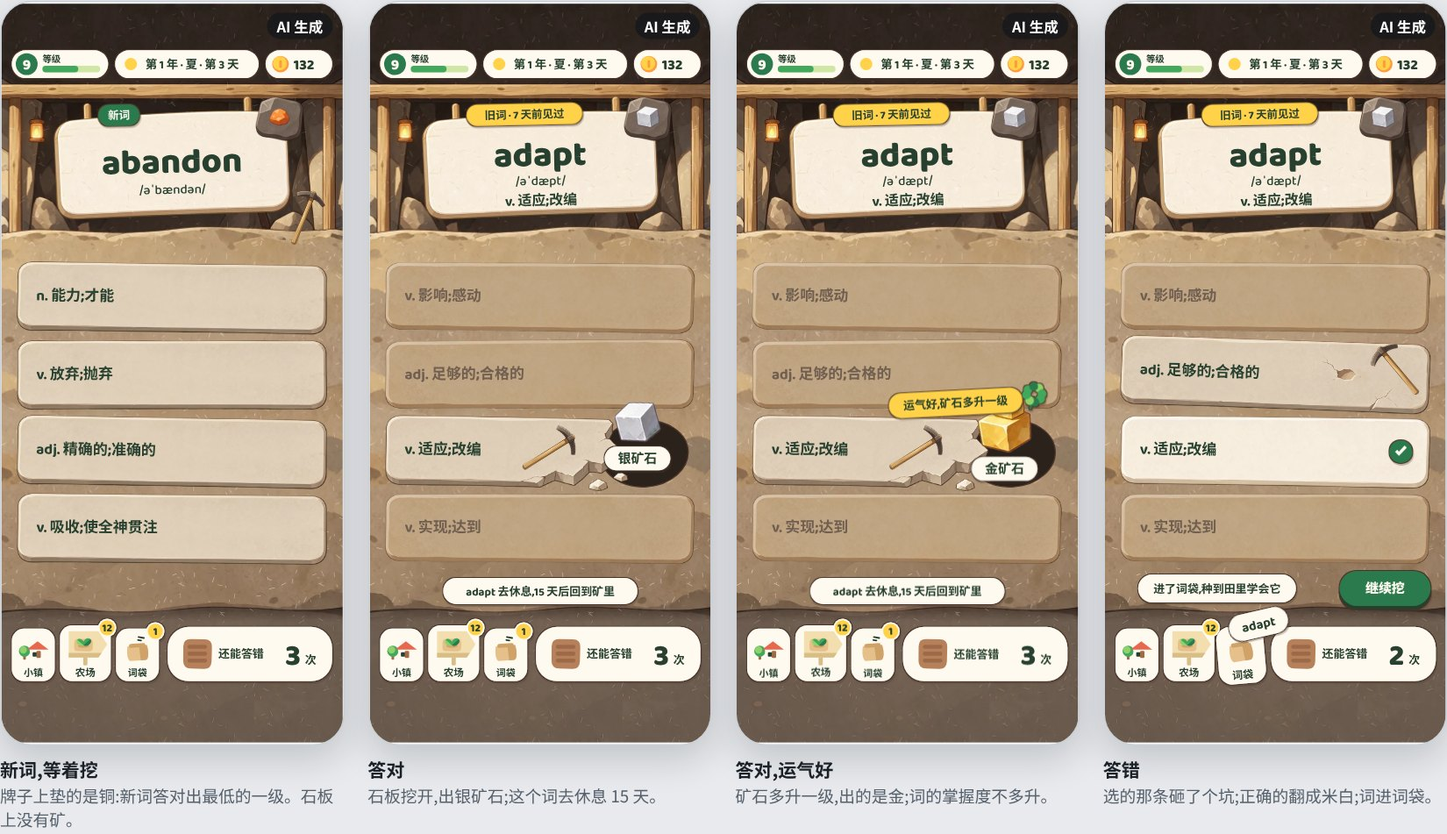
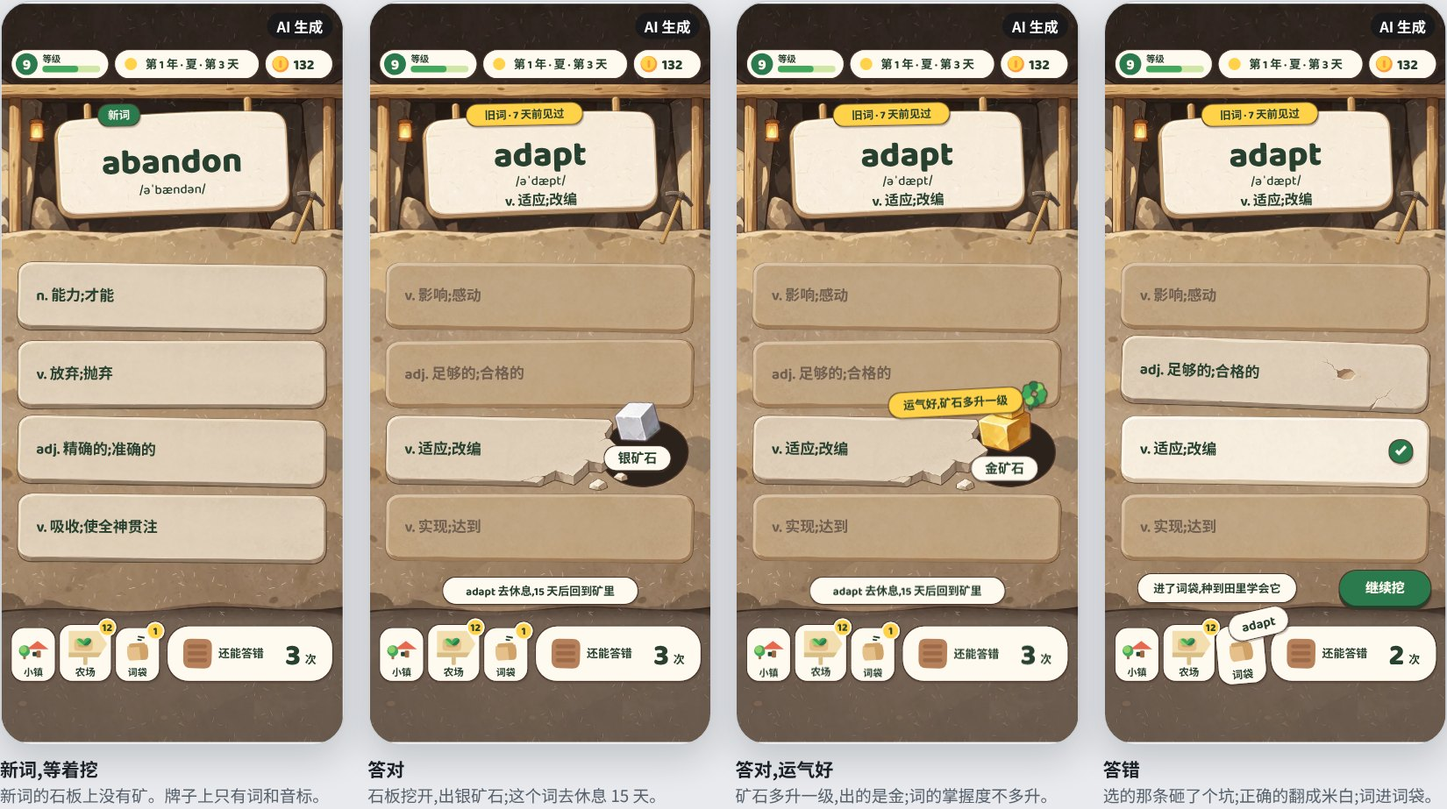
Drop the ore preview and keep the pick in the cave corner
The owner reviewed the sprite-built mine and asked for two changes: the
word sign no longer shows which ore a correct answer will yield, and the
pick stays leaning in the corner instead of landing on the answered
slab. Feedback after an answer now rests on the slab itself.

The ore pad sprite is no longer used and is removed from the set. The
art spec's body still describes the old layout, so its notice block
records the change until the spec is rewritten.

Claude-Session: https://claude.ai/code/session_01KLGgNjxFgtRsY37w3UzLNc

diff --git a/docs/design/cel-screens/index.html b/docs/design/cel-screens/index.html
@@ -355,8 +355,8 @@
     <div class="wrap">
       <h2>用素材拼出来的矿洞</h2>
       <p class="sub">
-        和农场、牧场同一种做法:背景一张(洞、木梁、提灯、矿壁、地面,这些不变),石板五种状态,矿石七级,词牌、镐、垫矿石的石片各一个。
-        哪条石板挖开了、出的是哪一级矿石、牌子上垫的是什么,都按这一题的状态摆。排法照搬彩纸那一屏,没有改。
+        和农场、牧场同一种做法:背景一张(洞、木梁、提灯、矿壁、地面,这些不变),石板五种状态,矿石七级,词牌和镐各一个。
+        哪条石板挖开了、出的是哪一级矿石,都按这一题的状态摆。排法照彩纸那一屏,负责人看过之后改了两处,见<a href="#mine-changes">下面</a>。
         背景是在负责人选的那一张(第一版的洞和矿壁)上把会变的东西去掉得到的,洞和矿壁没有重画。
       </p>
       <div class="trio" id="mine-built"></div>
@@ -369,10 +369,22 @@
       <p class="sub">四种情况,都是同一套素材摆出来的,没有另外出图:新词等着挖;答对;答对而且运气好,矿石多升一级;答错。</p>
       <div class="trio" id="mine-states" style="grid-template-columns:repeat(4,minmax(0,1fr));max-width:1100px"></div>
       <ul class="notes">
-        <li><b>答对:</b>那条石板换成断开的一张,右边露出洞,矿石放大摆在洞口,镐落在石板上。其余三条换成"沉回矿壁"的一张。</li>
+        <li><b>答对:</b>那条石板换成断开的一张,右边露出洞,矿石放大摆在洞口。其余三条换成"沉回矿壁"的一张。</li>
         <li><b>答错:</b>选的那条换成砸出一个小坑的一张,歪 2 度多;正确的那条换成米白的一张,加一个对勾。</li>
         <li><b>挖开之后露出的洞是代码画的一个深色椭圆,</b>不是素材,颜色是从背景里洞最深的地方量的。它边缘太齐,和手绘的石板放在一起看得出来。要好看得单独画一张。</li>
         <li><b>矿石的名字、对勾、四叶草、提示条、按钮</b>仍然是代码画的。</li>
+      </ul>
+
+      <h3 id="mine-changes">负责人看过之后改的两处</h3>
+      <p class="sub">上面一排是之前的,下面一排是现在的:答对和答错。</p>
+      <div class="sheet ai"><img src="shots/mine-redraw.jpg" alt="答对和答错:之前词牌右上角有矿石、镐落在石板上;现在词牌上没有矿石、镐靠在洞边" loading="lazy"></div>
+      <ul class="notes">
+        <li><b>词牌右上角不放矿石了。</b>之前那里垫着一块石片,上面是这次答对会出的那一级矿石。现在牌子上只有词、音标和"新词/旧词"的标签。</li>
+        <li><b>镐固定靠在洞的右边,</b>答对答错都不挪到石板上。</li>
+        <li><b>这两处和美术规范写的不一样了</b>(规范里词牌右上角探出会出的矿石,镐停在被点的那条石板上),规范开头的说明里记了一笔,正文等重写时再改。彩纸的那一屏和整屏重画的那一张没有动,还是原来的样子。</li>
+        <li><b>旧词石板上露着的那点矿还在。</b>它也透露这个词会出哪一级,这次没有提到它,所以没有动。</li>
+        <li><b>答完的反馈现在全落在石板自己身上:</b>断开,或者砸出一个坑。静止的画面里看得出点的是哪一条;做动效时"点下去的那一下"怎么表现要另想,比如镐从洞边挥一下再回去。这一条没有做,只是提出来。</li>
+        <li><b>割草那一屏是同一种说法</b>(词牌右上角探出能割的草,镰刀落在点的那一垄上)。那一屏没有重做,要不要跟着改还没有定。</li>
       </ul>
 
       <h3>素材一览</h3>
@@ -381,7 +393,7 @@
       <ul class="notes">
         <li><b>七级矿石分三档形状:</b>圆的粗矿(铜、铁),方的贵金属(银、金),尖的宝石(绿宝石、红宝石、钻石)。晶体的根数是 2、2、3,和彩纸那一版一样,数过。</li>
         <li><b>七个是同一个比例切出来的,</b>所以一级比一级大是画出来的,不是代码放大的。但银(第 3 级)画得比铁(第 2 级)小一点,量出来高 20pt 对 24pt。靠形状和颜色还是分得开,大小上不是严格一级比一级大。</li>
-        <li><b>银和钻石都是白的。</b>垫在深色石片上、摆在洞口时看得清;直接放在米白的界面上会看不清,和彩纸那一版是同一个问题,所以石片留着。</li>
+        <li><b>银和钻石都是白的。</b>摆在深色的洞口和石板上看得清;直接放在米白的界面上会看不清,和彩纸那一版是同一个问题。背包和商店里怎么垫,到做那几屏时再定。</li>
       </ul>
 
       <h3>动过的地方</h3>
@@ -398,7 +410,7 @@
       </ul>
       <div class="sheet ai"><img src="shots/mine-misses.jpg" alt="第一轮画错的四处:梁下面留着小牌子;石板上有矿石;词牌上有小纸签;宝石的晶体根数不对" loading="lazy"></div>
       <ul class="notes">
-        <li><b>用量:</b>两轮 8 次调用,约 11 万个输出 token。价格以账单为准。切出来 15 个素材加一张背景,约 0.3MB。提示词在 <code>sprites-mine/manifest.json</code>。</li>
+        <li><b>用量:</b>两轮 8 次调用,约 11 万个输出 token。价格以账单为准。切出来 14 个素材加一张背景,约 0.3MB(还有一块垫矿石的石片,出了没有用上)。提示词在 <code>sprites-mine/manifest.json</code>。</li>
       </ul>
 
       <h3>还没有做的</h3>

diff --git a/docs/design/cel-screens/cel-screens.js b/docs/design/cel-screens/cel-screens.js
@@ -308,7 +308,7 @@
       h = q.h * k2;
     return at(x, y, pic(base, name, -w * (ax == null ? 0.5 : ax), -h * (ay == null ? 0.5 : ay), w, h), rot);
   }
-  /** 镐:镐头的中心落在 (x, y),和彩纸那把镐是同一个握法,所以位置和角度可以照搬。 */
+  /** 镐:镐头的中心落在 (x, y),和彩纸那把镐是同一个握法,所以靠在洞边的位置和角度可以照搬。 */
   function minePick(base, x, y, rot, s) {
     return minePic(base, 'pick', x, y, s, rot, 0.5, 0.13);
   }
@@ -392,18 +392,11 @@
       texts += s.text;
     });
     o += holes + slabs + (opt.bare ? '' : texts);
-    // 词牌:两根木条挂在梁上。右上角垫一块石片,上面是答对会出的那一级矿石
-    o += g(
-      signTf,
-      minePic(base, 'sign', cx - 135, 107, 1, 0, 0, 0) +
-        minePic(base, 'pad', cx + 124, cy - 49, 1.12, 5) +
-        minePic(base, 'ore-' + (v.mastery + 1), cx + 124, cy - 51, 1.25, 5),
-    );
-    if (sel == null) top += minePick(base, 354, 222, 22, 1.05);
-    else if (right) {
-      top += minePick(base, 226, ys[sel] + 26, 58, 1.12);
-      top += minePic(base, 'ore-' + grade, 306, ys[sel] + 6, BURST, -6);
-    } else top += minePick(base, 318, ys[sel] + 16, -40, 1.12);
+    // 词牌:两根木条挂在梁上。牌子上只有词,不预告这次会出哪一级矿石(负责人 2026-11-22 定的)
+    o += g(signTf, minePic(base, 'sign', cx - 135, 107, 1, 0, 0, 0));
+    // 镐固定靠在洞的右边,答对答错都不挪到石板上(同一天定的)。答完的反馈落在石板自己身上:断开,或者砸出一个坑
+    top += minePick(base, 354, 222, 22, 1.05);
+    if (right) top += minePic(base, 'ore-' + grade, 306, ys[sel] + 6, BURST, -6);
     o += top;
     if (opt.bare) return o + '</svg>';
 

diff --git a/docs/design/cel-screens/sprites-mine/atlas.js b/docs/design/cel-screens/sprites-mine/atlas.js
@@ -1,2 +1,2 @@
 // 矿洞素材的清单:每个素材在屏幕上的宽和高(pt)。由切图的脚本写出来,不要手改。
-(window.LD = window.LD || {}).celMineSprites = {"slab-idle": {"w": 355.5, "h": 82.0}, "slab-hit": {"w": 279.2, "h": 85.3}, "slab-miss": {"w": 355.0, "h": 81.3}, "slab-answer": {"w": 355.0, "h": 81.3}, "slab-dim": {"w": 354.8, "h": 81.1}, "ore-1": {"w": 19.0, "h": 16.2}, "ore-2": {"w": 26.6, "h": 23.7}, "ore-3": {"w": 21.9, "h": 20.1}, "ore-4": {"w": 26.1, "h": 29.8}, "ore-5": {"w": 23.1, "h": 34.4}, "ore-6": {"w": 26.6, "h": 32.1}, "ore-7": {"w": 37.2, "h": 42.0}, "sign": {"w": 270.0, "h": 137.9}, "pick": {"w": 34.3, "h": 62.0}, "pad": {"w": 48.0, "h": 44.3}};
+(window.LD = window.LD || {}).celMineSprites = {"slab-idle": {"w": 355.5, "h": 82.0}, "slab-hit": {"w": 279.2, "h": 85.3}, "slab-miss": {"w": 355.0, "h": 81.3}, "slab-answer": {"w": 355.0, "h": 81.3}, "slab-dim": {"w": 354.8, "h": 81.1}, "ore-1": {"w": 19.0, "h": 16.2}, "ore-2": {"w": 26.6, "h": 23.7}, "ore-3": {"w": 21.9, "h": 20.1}, "ore-4": {"w": 26.1, "h": 29.8}, "ore-5": {"w": 23.1, "h": 34.4}, "ore-6": {"w": 26.6, "h": 32.1}, "ore-7": {"w": 37.2, "h": 42.0}, "sign": {"w": 270.0, "h": 137.9}, "pick": {"w": 34.3, "h": 62.0}};

diff --git a/docs/design/cel-screens/index.js b/docs/design/cel-screens/index.js
@@ -337,11 +337,11 @@
       $('mine-built'),
       LD.cel.mineSprites(SP, BG, sc, V.old, 'idle'),
       '矿洞,素材拼的',
-      '<b>素材拼的</b>词牌、石板、矿石、镐都按这一题摆上去。',
+      '<b>素材拼的</b>石板和矿石按这一题摆上去;词牌上不再放矿石。',
       true,
     );
     [
-      ['first', 'idle', '新词,等着挖', '牌子上垫的是铜:新词答对出最低的一级。石板上没有矿。'],
+      ['first', 'idle', '新词,等着挖', '新词的石板上没有矿。牌子上只有词和音标。'],
       ['old', 'hit', '答对', '石板挖开,出银矿石;这个词去休息 15 天。'],
       ['old', 'lucky', '答对,运气好', '矿石多升一级,出的是金;词的掌握度不多升。'],
       ['old', 'miss', '答错', '选的那条砸了个坑;正确的翻成米白;词进词袋。'],

diff --git a/docs/design/cel-screens/tools/build_mine.py b/docs/design/cel-screens/tools/build_mine.py
@@ -50,12 +50,13 @@ if sp:
     k=42/sp[6].size[1]
     for i,s in enumerate(sp): save(s,f'ore-{i+1}',k)
 else: problems.append('ores')
-# 词牌 268pt 宽(连两根木条),镐约 62pt 高,垫矿石的石片 48pt 宽
+# 词牌 268pt 宽(连两根木条),镐约 62pt 高
 sp=cut('props.png',3,green=True)
 if sp:
     # 词牌也比彩纸那一屏的高(牌面 124pt,原来是 112pt),下沿会压到矿壁上,压扁 6%
     ks=270/sp[0].size[0]
-    save(sp[0],'sign',ks,ks*0.94); save(sp[1],'pick',62/sp[1].size[1]); save(sp[2],'pad',48/sp[2].size[0])
+    save(sp[0],'sign',ks,ks*0.94); save(sp[1],'pick',62/sp[1].size[1])
+    # 第三样是垫矿石的石片。词牌右上角不再放矿石(负责人 2026-11-22 定的),石片没有用上,不存
 else: problems.append('props')
 Image.open('bg2.png').convert('RGB').resize((780,1688),Image.LANCZOS).save(f'{OUT}/mine-bg.webp','WEBP',quality=86,method=6)
 json.dump(atlas,open(f'{OUT}/atlas.json','w'),ensure_ascii=False,indent=0)

diff --git a/docs/design/cel-screens/README.md b/docs/design/cel-screens/README.md
@@ -40,6 +40,7 @@
 | [`pasture-redraw.jpg`](shots/pasture-redraw.jpg) | 负责人要求改的:草垛、饲料桶、牧草、母鸡,之前和现在 |
 | [`mine-built.jpg`](shots/mine-built.jpg)、[`mine-states.jpg`](shots/mine-states.jpg) | 用素材拼出来的矿洞:和彩纸、整屏重画并排;新词、答对、运气好、答错 |
 | [`mine-sprites.jpg`](shots/mine-sprites.jpg)、[`mine-misses.jpg`](shots/mine-misses.jpg) | 矿洞的素材一览;第一轮画错的四处 |
+| [`mine-redraw.jpg`](shots/mine-redraw.jpg) | 负责人要求改的:词牌上不放矿石、镐固定在洞边,之前和现在 |
 | [`tone.jpg`](shots/tone.jpg) | 色调:第一版和现在的,三屏各一对 |
 | [`mine-cave.jpg`](shots/mine-cave.jpg) | 矿洞:左边是第一版,右边是现在的(同一张画,只调亮了地面) |
 | [`ground.jpg`](shots/ground.jpg) | 底色:农场和牧场各三张,彩纸、调之前、调之后(只有场景,没有界面) |
@@ -288,22 +289,22 @@
 
 ### 用素材拼出来的矿洞
 
-和农场、牧场同一种做法:背景一张(洞、木梁、提灯、矿壁、地面,这些不变),石板五种状态,矿石七级,词牌、镐、垫矿石的石片各一个。
-哪条石板挖开了、出的是哪一级矿石、牌子上垫的是什么,都按这一题的状态摆。排法照搬彩纸那一屏([`../mine-screens/screens.js`](../mine-screens/screens.js) 的 `mine`),没有改。
+和农场、牧场同一种做法:背景一张(洞、木梁、提灯、矿壁、地面,这些不变),石板五种状态,矿石七级,词牌和镐各一个。
+哪条石板挖开了、出的是哪一级矿石,都按这一题的状态摆。排法照彩纸那一屏([`../mine-screens/screens.js`](../mine-screens/screens.js) 的 `mine`),负责人看过之后改了两处,见[下面](#负责人看过之后改的两处)。
 背景是在负责人选的那一张(第一版的洞和矿壁)上把会变的东西去掉得到的,洞和矿壁没有重画。
 
 ![彩纸、整屏重画、素材拼的矿洞](shots/mine-built.jpg)
 
-*同一条旧词矿脉,等着挖。左:彩纸的原稿(代码绘制)。中:整屏重画(AI 生成)。右:素材拼的(素材是 AI 生成之后切出来的)。*
+*同一条旧词矿脉,等着挖。左:彩纸的原稿(代码绘制)。中:整屏重画(AI 生成)。右:素材拼的(素材是 AI 生成之后切出来的);词牌右上角不再放矿石。*
 
 | 素材 | 数量 | 说明 |
 |---|---|---|
 | 背景 | 1 | 洞、木梁、两根木柱、提灯、矿壁、地面 |
 | 石板 | 5 | 等着挖、挖开了、没挖开、正确答案、沉回矿壁 |
 | 矿石 | 7 | 铜、铁(圆的),银、金(方的),绿宝石、红宝石、钻石(尖的,晶体 2、2、3 根) |
-| 词牌、镐、石片 | 3 | 词牌带两根挂在梁上的木条;石片垫在矿石下面 |
+| 词牌、镐 | 2 | 词牌带两根挂在梁上的木条 |
 
-一共 15 个素材加一张背景,约 0.3MB。
+一共 14 个素材加一张背景,约 0.3MB。还出了一块垫矿石的石片,没有用上,没有存。
 
 ![新词等着挖、答对、运气好、答错](shots/mine-states.jpg)
 
@@ -311,8 +312,25 @@
 
 - **整屏重画只有"等着挖"这一个样子,**答对、答错之后石板怎么变,那张图里没有。现在四种情况都能摆。
 - **石板上露着的矿是按数据摆的:**旧词的四条石板上各有两小块,是这个词现在那一级的矿石;新词的石板上没有。
-- **答对:**那条石板换成断开的一张,右边露出洞,矿石放大 2.4 倍摆在洞口,镐落在石板上;其余三条换成"沉回矿壁"的一张。
+- **答对:**那条石板换成断开的一张,右边露出洞,矿石放大 2.4 倍摆在洞口;其余三条换成"沉回矿壁"的一张。
   **答错:**选的那条换成砸出一个小坑的一张;正确的那条换成米白的一张,加一个对勾。
+
+#### 负责人看过之后改的两处
+
+负责人 2026-11-22 的原话:"单词框右上角的矿石预测就不用加了,然后镐子不用在答对答错的选项上显示,还是跟原来一样固定在矿洞的一角就可以"。
+
+![答对和答错:之前和现在](shots/mine-redraw.jpg)
+
+*上面一排是之前的,下面一排是现在的。*
+
+- **词牌右上角不放矿石了。** 之前那里垫着一块石片,上面是这次答对会出的那一级矿石。现在牌子上只有词、音标和"新词/旧词"的标签。
+- **镐固定靠在洞的右边,**答对答错都不挪到石板上。
+- **这两处和[美术规范](../07-art-direction.md#矿洞)写的不一样了:**规范里词牌右上角探出会出的矿石,镐停在被点的那条石板上。规范开头的说明里记了一笔,正文等重写时再改。
+  彩纸的那一屏和整屏重画的那一张没有动。
+- **旧词石板上露着的那点矿还在。** 它也透露这个词会出哪一级。负责人这次没有提到它,所以没有动。
+- **答完的反馈现在全落在石板自己身上:**断开,或者砸出一个坑。静止的画面里看得出点的是哪一条;做动效时"点下去的那一下"怎么表现要另想,
+  比如镐从洞边挥一下再回去。没有做,只是提出来。
+- **割草那一屏是同一种说法**(词牌右上角探出能割的草,镰刀落在点的那一垄上)。那一屏没有重做,要不要跟着改还没有定。
 
 **动过的地方(不是模型画出来的原样):**
 
@@ -430,7 +448,7 @@
 | `generated/mine.webp`:矿洞的场景。就是第一版的画,只调亮了地面 | 同上 | 2026-11-22 | 同上 | 对比页 |
 | `sprites/*.webp`:拼农场的 67 个素材和一张背景,从 29 张出图里切出来 | 同上,带参考图 | 2026-11-22 | `sprites/manifest.json` | 对比页"用素材拼的农场" |
 | `sprites-pasture/*.webp`:拼牧场的 35 个素材和一张背景,从 11 张出图里切出来 | 同上,带参考图 | 2026-11-22 | `sprites-pasture/manifest.json` | 对比页"用素材拼的牧场" |
-| `sprites-mine/*.webp`:拼矿洞的 15 个素材和一张背景,从 4 张出图里切出来。**动过:**石板和词牌压扁过,"沉回矿壁"的石板调过颜色 | 同上,带参考图 | 2026-11-22 | `sprites-mine/manifest.json` | 对比页"用素材拼的矿洞" |
+| `sprites-mine/*.webp`:拼矿洞的 14 个素材和一张背景,从 4 张出图里切出来。**动过:**石板和词牌压扁过,"沉回矿壁"的石板调过颜色 | 同上,带参考图 | 2026-11-22 | `sprites-mine/manifest.json` | 对比页"用素材拼的矿洞" |
 | `generated/sprites-turnip.webp`:最早试的萝卜七个状态 | 同上 | 2026-11-22 | `generated/manifest.json` | 没有再用在页面上,留作记录 |
 | `generated/farm-v1.webp`、`pasture-v1.webp`、`mine-v1.webp`:第一版,色调偏深 | 同上 | 2026-11-22 | 同上 | 对比页"色调"一节,留作对照 |
 
@@ -447,7 +465,7 @@
 | `generated/` | AI 生成的三张场景、一张素材、第一版的三张(`*-v1.webp`),和 `manifest.json` |
 | `sprites/` | 拼农场用的素材:67 个带透明底的小图、一张背景、清单 `atlas.js`、每张出图的提示词 `manifest.json`。AI 生成之后切出来的 |
 | `sprites-pasture/` | 拼牧场用的素材:35 个带透明底的小图、一张背景、清单 `atlas.js`、每张出图的提示词 `manifest.json`。AI 生成之后切出来的 |
-| `sprites-mine/` | 拼矿洞用的素材:15 个带透明底的小图、一张背景、清单 `atlas.js`、每张出图的提示词 `manifest.json`。AI 生成之后切出来的 |
+| `sprites-mine/` | 拼矿洞用的素材:14 个带透明底的小图、一张背景、清单 `atlas.js`、每张出图的提示词 `manifest.json`。AI 生成之后切出来的 |
 | `tools/` | 出素材和切素材的脚本,是这次怎么做的记录。要装 Pillow 和 NumPy。`grade.py` 是把一张重画的图整体调回彩纸色调用的,试过,最后没有用在仓库里的图上 |
 | `shots/` | 截图 |
 

diff --git a/docs/design/06-roadmap.md b/docs/design/06-roadmap.md
@@ -140,7 +140,7 @@
 | 小镇里的家和以后的地点 | 地图上已经画了"家"和"以后开放"的空地。里面有什么、按等级还是词汇量开放,没有设计。见[决策记录 0018](../decisions/0018-town-map-as-hub.md)。 |
 | 岩层构图像不像游戏 | 矿洞静止时最像一张选择题列表,游戏感要靠动效。要等能点的原型才能判断。见[决策记录 0017](../decisions/0017-mine-screens-art.md)。 |
 | 美术规范要按新画风重写 | 画风改成了偏插画的赛璐璐([决策记录 0028](../decisions/0028-art-direction-illustrated-cel.md)),[美术规范](07-art-direction.md)写的还是彩纸。布局、状态的表示法和色板沿用(负责人定了色调用彩纸的);形状、用色规则("蓝色只表示水""没有描边和渐变"等)要逐条过,哪些留、哪些改由负责人定。 |
-| 新画风的素材怎么出 | **农场走通了一屏**:背景一张、地块三种、12 种作物各五个状态、共用的种子发芽和干草,共 67 个素材(圆胖、枯萎调轻),按存档拼回一屏,状态由数据决定,不会画错。见[新画风的画面](cel-screens/README.md#用素材拼出来的农场)。**牧场也拆了**:牲畜的各种样子、草垛四档、饲料桶三档、三种高矮的牧草,共 35 个,拼回了一屏并换了四个存档,见[同一页](cel-screens/README.md#用素材拼出来的牧场)。**矿洞也拆了**:石板五种状态、七级矿石、词牌、镐、石片,共 15 个,等着挖、答对、运气好、答错都能摆,见[同一页](cel-screens/README.md#用素材拼出来的矿洞)。**还没有解决的:**矿洞挖开之后露出的洞还是代码画的,石板和词牌为了放进原来的排法压扁过;牧场里病了的牛不够灰,羊毛长到哪了没有画;生长动画只能换图;120 块地的全景要另一套小图;引擎里位图的图集、包体和内存没有试。 |
+| 新画风的素材怎么出 | **农场走通了一屏**:背景一张、地块三种、12 种作物各五个状态、共用的种子发芽和干草,共 67 个素材(圆胖、枯萎调轻),按存档拼回一屏,状态由数据决定,不会画错。见[新画风的画面](cel-screens/README.md#用素材拼出来的农场)。**牧场也拆了**:牲畜的各种样子、草垛四档、饲料桶三档、三种高矮的牧草,共 35 个,拼回了一屏并换了四个存档,见[同一页](cel-screens/README.md#用素材拼出来的牧场)。**矿洞也拆了**:石板五种状态、七级矿石、词牌、镐,共 14 个,等着挖、答对、运气好、答错都能摆(负责人看过之后定了:词牌上不预告矿石,镐固定在洞边),见[同一页](cel-screens/README.md#用素材拼出来的矿洞)。**还没有解决的:**矿洞挖开之后露出的洞还是代码画的,石板和词牌为了放进原来的排法压扁过;牧场里病了的牛不够灰,羊毛长到哪了没有画;生长动画只能换图;120 块地的全景要另一套小图;引擎里位图的图集、包体和内存没有试。 |
 | 不生长只剩星带能看出来,够不够 | 负责人定了不生长不单独画([决策记录 0029](../decisions/0029-crop-states-in-sprites.md)),它和健康的画得一样,只是星带少一颗星。"哪些词上次答错了"一眼看不出来了。要等能玩的时候看。 |
 | 成熟的作物枯萎了怎么办 | 负责人定了成熟的不画枯萎([决策记录 0029](../decisions/0029-crop-states-in-sprites.md))。但规则里它可以枯萎:长到成熟的样子之后还差一次浇水才收获,这时候连错两次就是枯萎。现在画成健康的样子,只有星带能看出来。要不要把规则改成"成熟的不会枯萎",由负责人定。 |
 | 死了的作物那堆干草什么时候出现、留多久 | 画法定了(一堆干草,所有作物共用),规则没有:[玩法规则](02-gameplay.md#作物死亡)写的是连错三次地块清空。是闪一下就变回空地,还是留着等玩家点掉;留着的话算不算空地(空地决定还能挖多少新词)。由负责人定,要改规则时按改规则的流程走。 |

diff --git a/docs/design/07-art-direction.md b/docs/design/07-art-direction.md
@@ -8,6 +8,7 @@
 > - **仍然有效的:** 排法、尺寸、每种状态怎么表示(干土加水滴、湿土、星带、收获标记、岩层的构图、房子在上草地在下)、字体、"不做什么"。新画风的画面就是照着这些重画的。
 > - **色板也仍然有效。** 负责人看过新画风的第一版之后定的:色调用彩纸的(第一版偏深、对比偏高)。新画面的草地、天、干土、湿土量出来和色板几乎一样。用色规则要逐条过:"蓝色只表示水"现在天也是浅蓝的。
 > - **状态的画法改了两处,新定了一处**([决策记录 0029](../decisions/0029-crop-states-in-sprites.md)):不生长不单独画,用健康的那张;枯萎是"蔫了但还能救",只发黄下垂,而且只有幼苗和成株两个阶段画,成熟的不画;死了的是一小堆干草,所有作物共用。下面"状态"一节写的还是彩纸的画法。
+> - **矿洞改了两处**(负责人 2026-11-22 看过用素材拼的矿洞之后定的,见[新画风的画面](cel-screens/README.md#负责人看过之后改的两处)):词牌右上角不再探出"会出的矿石";镐固定靠在洞的一角,答对答错都不停到石板上。下面"矿洞"一章写的还是原来的。
 > - **不再适用的:** "一句话"、原则 2 和 3、"形状"一章、"素材怎么做"。它们写的是彩纸。
 > - 彩纸的那几屏现在是布局稿:改排法先改它们,再按新画风重画。
 > - 按新画风重写本文之前,两边冲突的地方以决策记录 0028 和新画风的画面为准。
